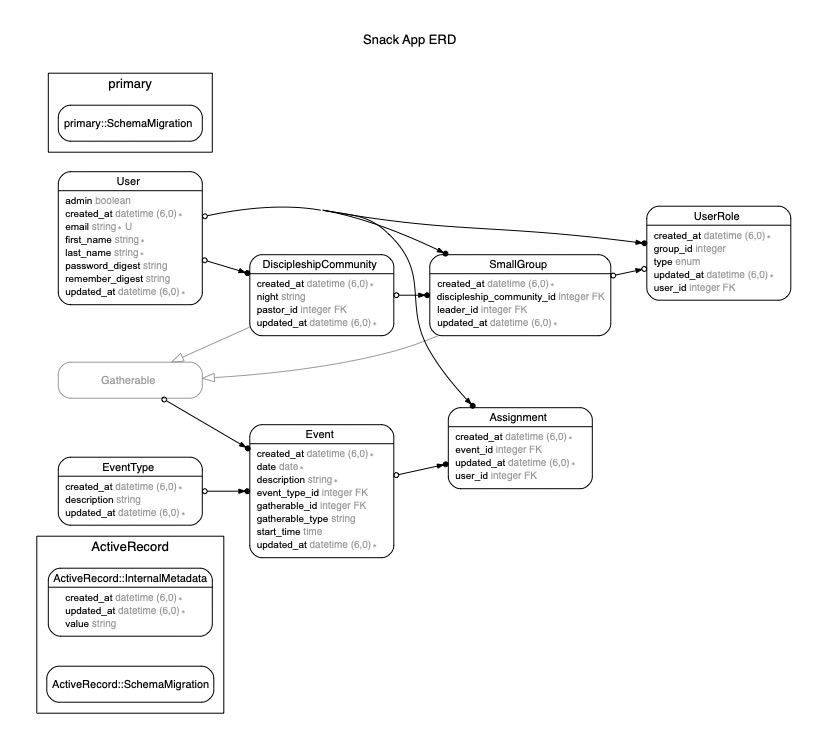
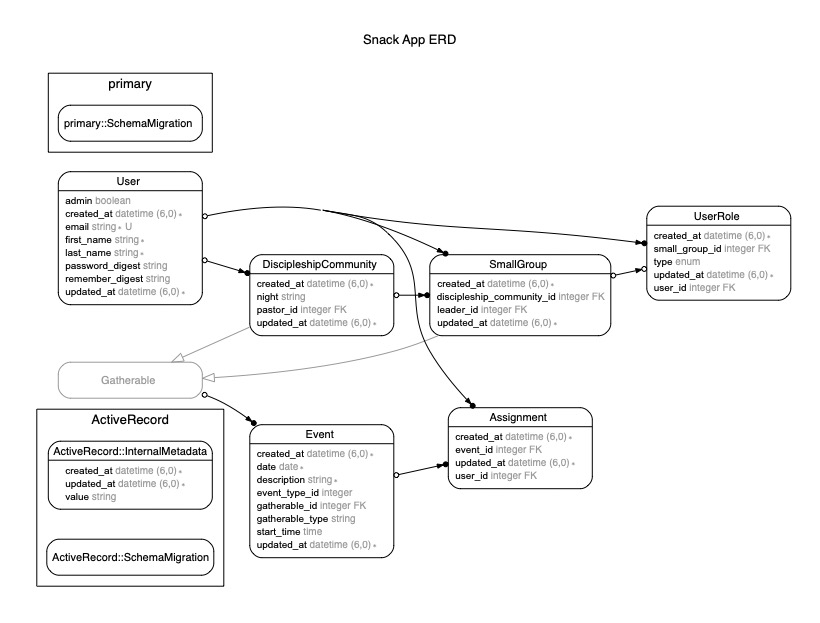
Ran       invoke  active_record       remove    db/migrate/20191125054522_create_event_types.rb       remove    app/models/event_type.rb       invoke    test_unit       remove      test/models/event_type_test.rb       remove      test/fixtures/event_types.yml       invoke  controller       remove   

Changed region(s): [[0.0305, 0.0915, 0.9756, 0.9759], [0.4268, 0.0305, 0.5488, 0.0915]]

diff --git a/app/models/event.rb b/app/models/event.rb
@@ -7,7 +7,6 @@ class Event < ApplicationRecord
   # validates :date_is_in_the_future?
   # validates :date_is_in_the_future?, if: :new_record?
 
-
   def date_is_in_the_future?
     date < Date.today
     # errors.add(:date, "can't be in the past") if date < Date.today

diff --git a/config/routes.rb b/config/routes.rb
@@ -6,7 +6,6 @@ Rails.application.routes.draw do
   resources :users
   resources :discipleship_communities
   resources :small_groups
-  resources :event_types
   resources :events
   resources :assignments
   resources :user_roles
